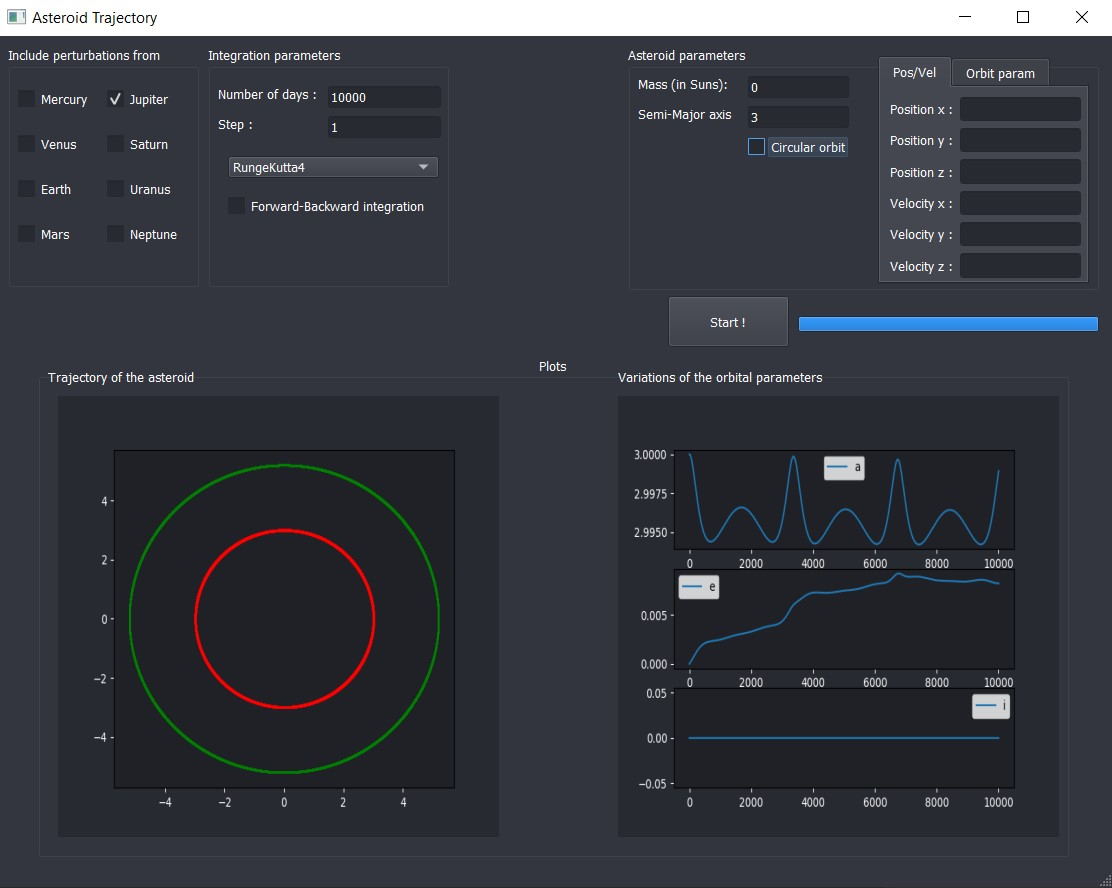
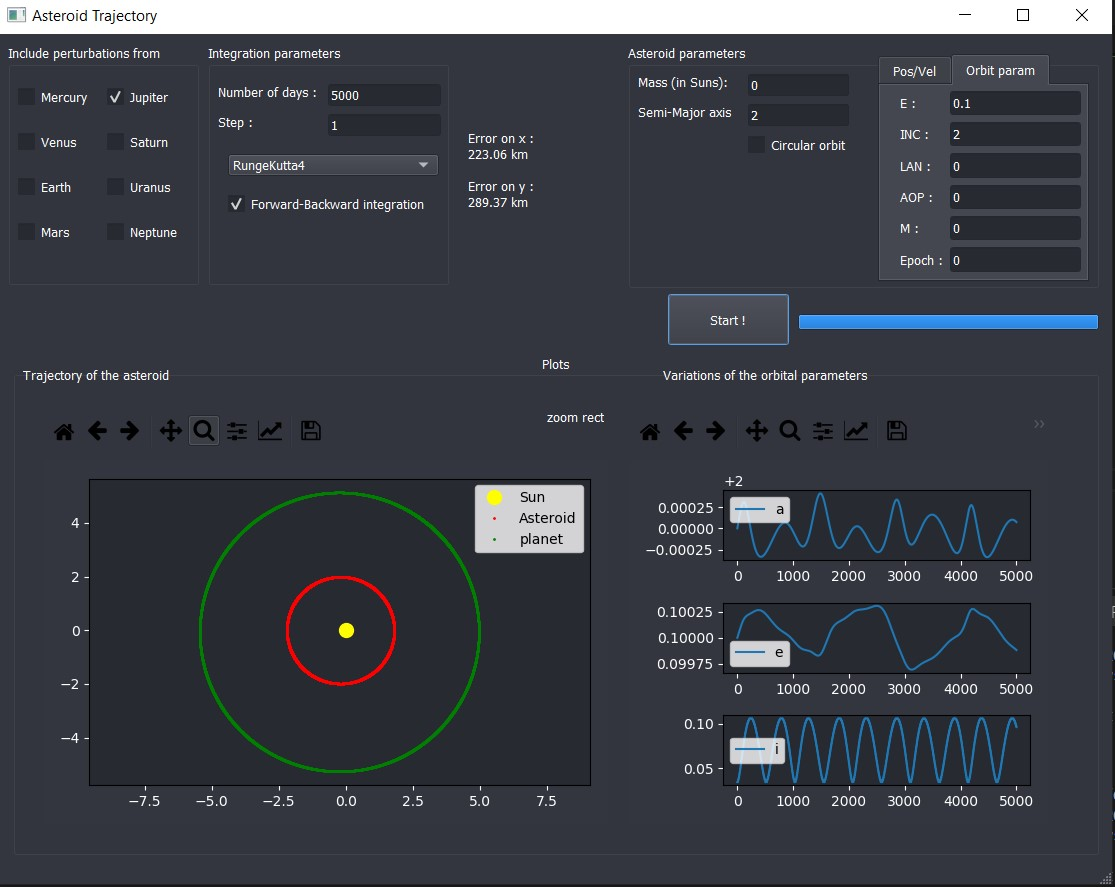
Small improvements to progress bar and plots

diff --git a/main_UI.py b/main_UI.py
@@ -466,20 +466,28 @@ class Ui_MainWindow(object):
 
             self.PlotTrajectory(jupiter)  # plot of the results + jupiter
 
-            self.progressBar.setValue(60)
-
             self.r_list, self.rdot_list = extract_vectors(self.results)
             self.a_list, self.e_list, self.i_list = orbital_parameters_list(self.r_list, self.rdot_list)
-            self.PlotOrbitVar(self.a_list, self.e_list, self.i_list, self.time[1:])
+            self.PlotOrbitVar(self.a_list, self.e_list, self.i_list, self.time)
 
             self.progressBar.setValue(100)
 
         else:  # No Jupiter
+            self.progressBar.setValue(0)
             ast = Asteroid()
             init = ast.get_init_state()
             self.time = np.arange(0, int(self.inputFinalTime.text()) + int(self.inputStep.text()),
                                   int(self.inputStep.text()))  # creation of the list containing each value of time
-            self.results = twoBody.RK4(self.time, init, int(self.inputStep.text()))
+            if self.forwBackCheckBox.isChecked():
+                self.forward, self.backward = twoBody.forward_backward(self.time, init,
+                                                                       int(self.inputStep.text()))
+                self.err_x = 150e6 * abs(self.forward[0][0] - self.backward[-1][0]) / 2
+                self.err_y = 150e6 * abs(self.forward[0][1] - self.backward[-1][1]) / 2
+                self.fwbwOutputLabel.setText('Error on x :\n' + str(round(self.err_x, 2)) + ' km\n\n' +
+                                             'Error on y :\n' + str(round(self.err_y, 2)) + ' km')
+                self.results = self.forward
+            else:
+                self.results = twoBody.RK4(self.time, init, int(self.inputStep.text()))
             self.PlotTrajectory()
 
             self.progressBar.setValue(100)
@@ -519,11 +527,13 @@ class Ui_MainWindow(object):
         self.orbitVar_canvas.axes3.cla()
 
         self.orbitVar_canvas.axes1.plot(time, a)
-        self.orbitVar_canvas.axes1.legend('a')
+        self.orbitVar_canvas.axes1.set_ylabel('SMA (au)', color='white')
         self.orbitVar_canvas.axes2.plot(time, e)
-        self.orbitVar_canvas.axes2.legend('e')
+        self.orbitVar_canvas.axes2.set_ylabel('Ecc', color='white')
+        self.orbitVar_canvas.axes2.yaxis.set_label_coords(1.07, 0.5)
         self.orbitVar_canvas.axes3.plot(time, i)
-        self.orbitVar_canvas.axes3.legend('i')
+        self.orbitVar_canvas.axes3.set_ylabel('Inc (deg)', color='white')
+        self.orbitVar_canvas.axes3.yaxis.set_label_coords(1.07, 0.5)
 
         self.orbitVar_canvas.axes1.tick_params(colors='white')
         self.orbitVar_canvas.axes1.patch.set_facecolor(plot_face_color)
@@ -641,6 +651,7 @@ class Asteroid(planet):
 
 
 class twoBody():  # Only the Sun exerts it's influence on the body.
+
     @classmethod
     def func(cls, t, y):  # using the state space representation of the equation of motion
         y0 = y[3]  # velocity on x
@@ -658,6 +669,7 @@ class twoBody():  # Only the Sun exerts it's influence on the body.
         results = []
         yin = initial_conditions
         results.append(yin)  # set the first value to the initial conditions
+        progress = ui.progressBar.value()
         for t in time_vector[1:]:
             k1 = cls.func(t, yin)
             k2 = cls.func(t + h / 2, yin + h / 2 * k1)
@@ -665,18 +677,25 @@ class twoBody():  # Only the Sun exerts it's influence on the body.
             k4 = cls.func(t + h, yin + h * k3)
             yin = yin + h / 6 * (k1 + 2 * k2 + 2 * k3 + k4)
             results.append(yin)  # each value calculated for given t is added to the list
+            ui.progressBar.setValue((90 - progress) * t / len(time_vector))
         return np.array(results)
 
     @classmethod
     def forward_backward(cls, time_vector, initial_conditions, h):
         # allows for error computation. we just need to compute the difference at the starting point
+
         y_forward = cls.RK4(time_vector, initial_conditions, h)  # call RK4 in forward movement
+
+        ui.progressBar.setValue(50)
+
         new_y0 = y_forward[-1]  # new initial conditions
         y_backward = cls.RK4(np.flip(time_vector), new_y0, -h)  # call RK4 backwards
+
         return y_forward, y_backward
 
 
 class threeBody():
+
     @classmethod
     def func(cls, t, y, planet):
         y0 = y[3]  # velocity on x
@@ -707,24 +726,28 @@ class threeBody():
         results = []
         yin = initial_conditions
         results.append(yin)  # set the first value to the initial conditions
-        for i in range(1, len(time_vector[1:])):
-            k1 = cls.func(time_vector[i], yin, planet)
-            k2 = cls.func(time_vector[i] + h / 2, yin + h / 2 * k1, planet)
-            k3 = cls.func(time_vector[i] + h / 2, yin + h / 2 * k2, planet)
-            k4 = cls.func(time_vector[i] + h, yin + h * k3, planet)
+        progress = ui.progressBar.value()
+        for t in time_vector[1:]:
+            k1 = cls.func(t, yin, planet)
+            k2 = cls.func(t + h / 2, yin + h / 2 * k1, planet)
+            k3 = cls.func(t + h / 2, yin + h / 2 * k2, planet)
+            k4 = cls.func(t + h, yin + h * k3, planet)
             yin = yin + h / 6 * (k1 + 2 * k2 + 2 * k3 + k4)
             # each value calculated for given t is added to the list
             results.append(yin)
+            ui.progressBar.setValue((90 - progress) * t / len(time_vector))
         return np.array(results)
 
     @classmethod
     def forward_backward(cls, time_vector, initial_conditions, h, planet):
         # allows for error computation. we just need to compute the difference at the starting point
         # call RK4 in forward movement
+
         y_forward = cls.RK4(time_vector, initial_conditions, h, planet)
+        ui.progressBar.setValue(50)
         new_y0 = y_forward[-1]  # new initial conditions
-        y_backward = cls.RK4(np.flip(time_vector), new_y0, -
-                             h, planet)  # call RK4 backwards
+        y_backward = cls.RK4(np.flip(time_vector), new_y0, - h, planet)  # call RK4 backwards
+
         return y_forward, y_backward
 
 
@@ -751,7 +774,8 @@ def vector2orbitalparam(r, rdot):
 
     k_vector = np.cross(r, rdot) / (np.linalg.norm(r) * np.linalg.norm(rdot))
 
-    inclination = np.arccos(np.around(k_vector[2], 4))  # np.around rounds the value of k_vectors so it stays in [-1,1]
+    # np.around rounds the value of k_vectors so it stays in [-1,1]
+    inclination = np.degrees(np.arccos(np.around(k_vector[2], 4)))
 
     return semi_major_axis, eccentricity, inclination
 
